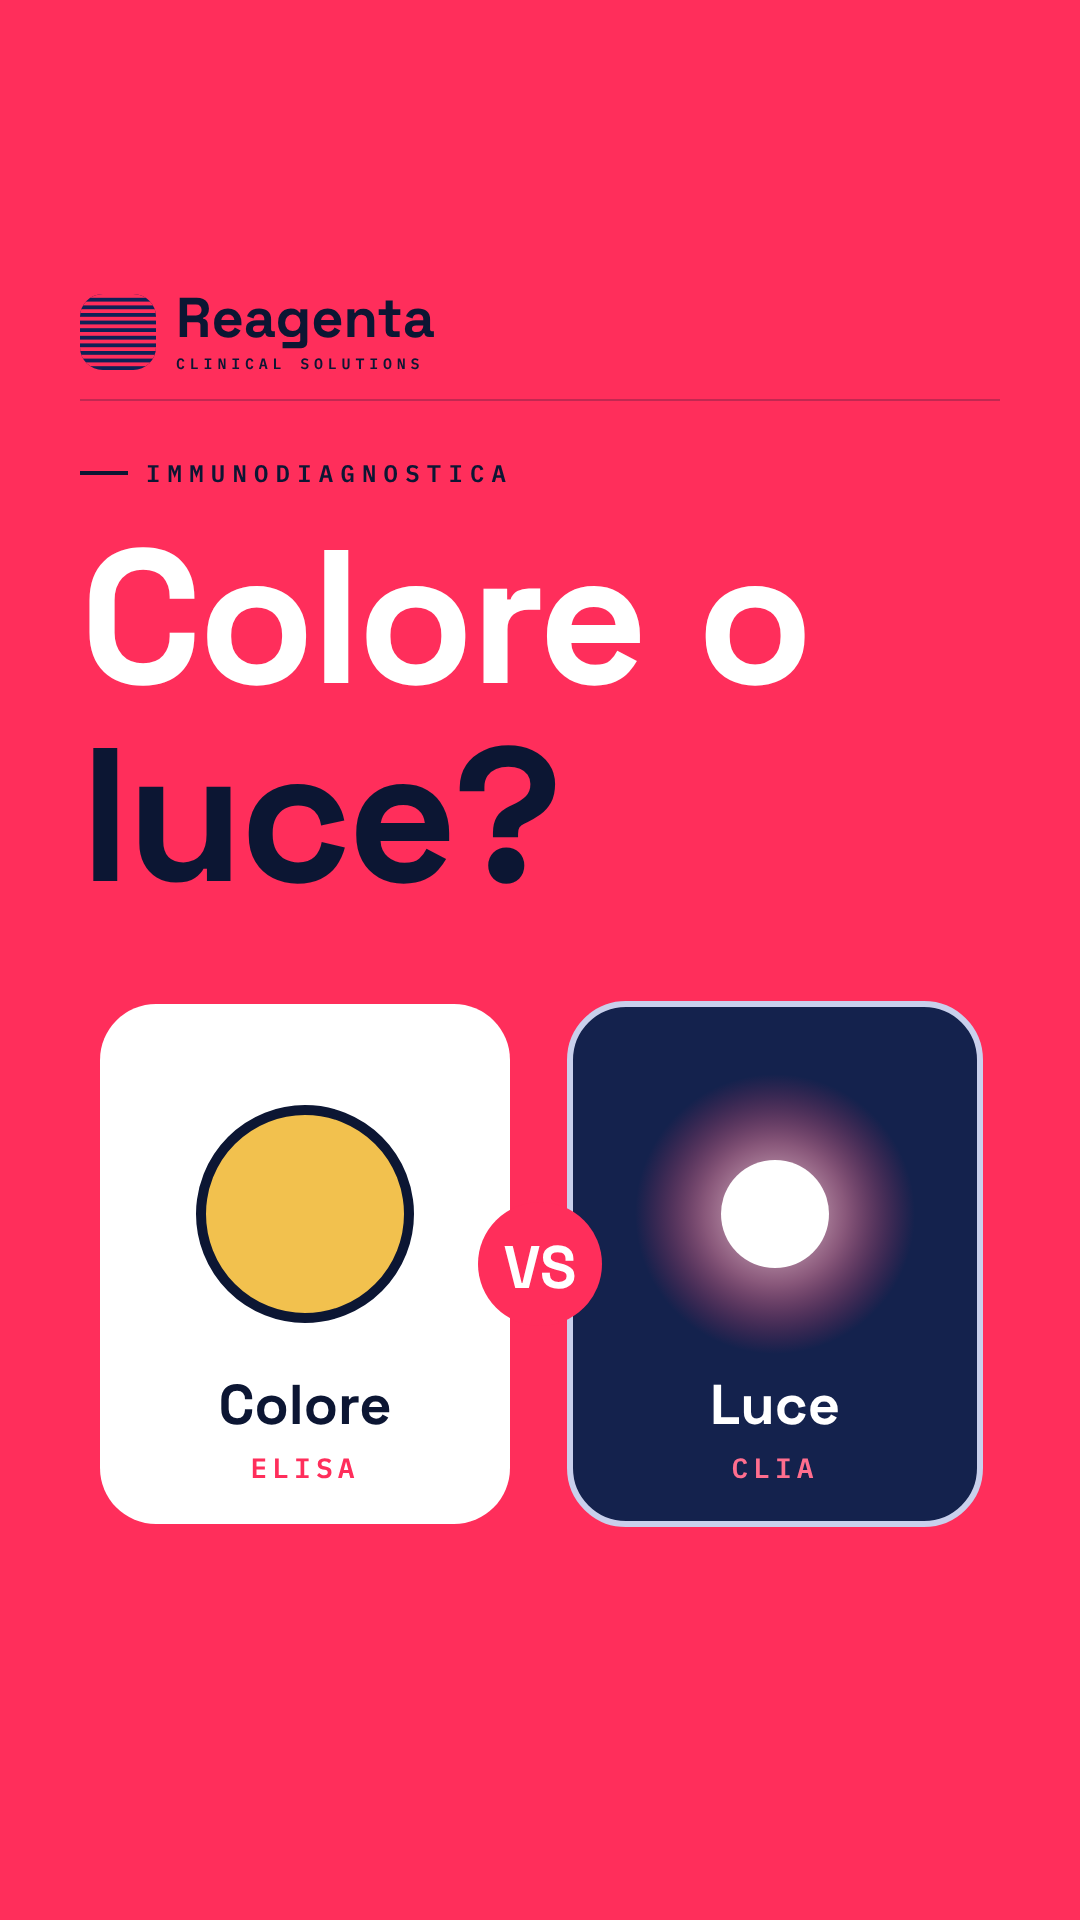
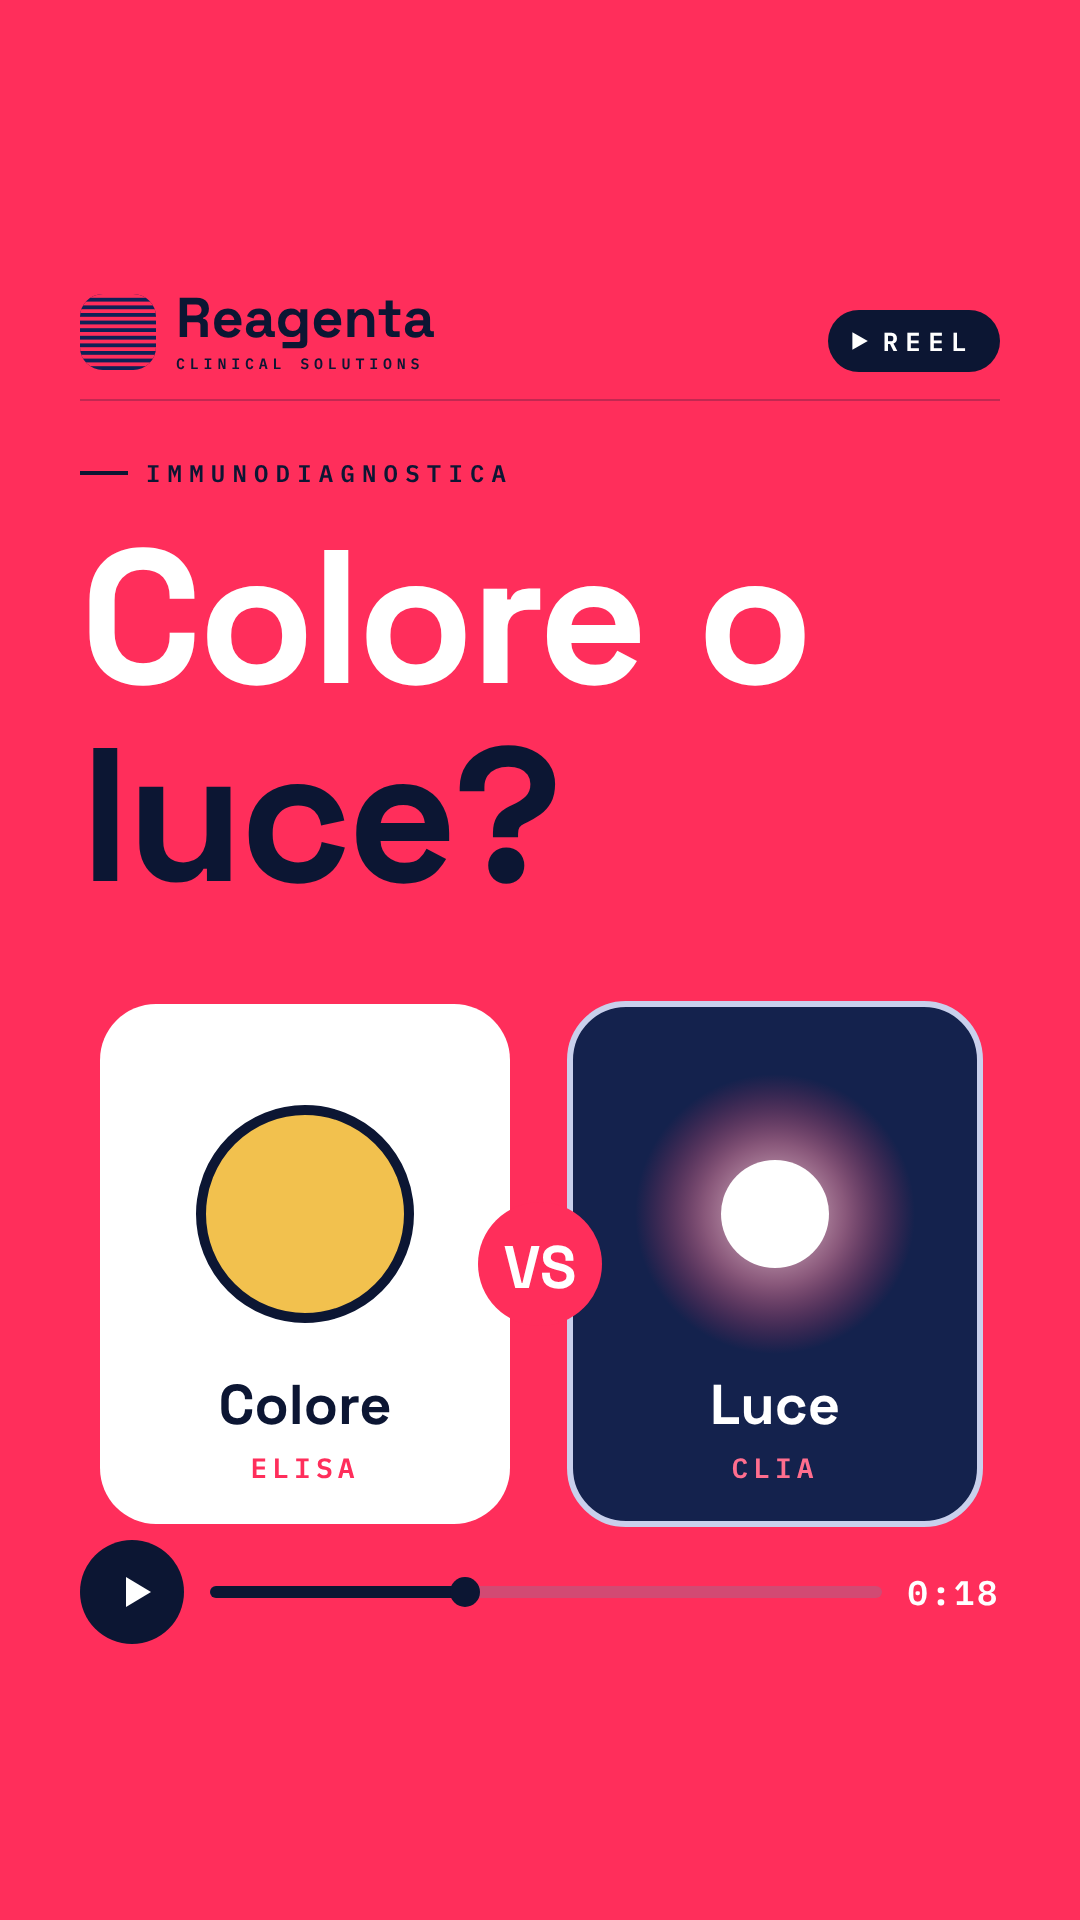
Copertine: bollino REEL e barra player
Claude-Session: https://claude.ai/code/session_0152nv26HiLFYhBMLnh8aMY2

Changed region(s): [[0.0611, 0.7812, 0.8556, 0.875], [0.7639, 0.1562, 0.9472, 0.2188], [0.8861, 0.8125, 0.9167, 0.8438]]

diff --git a/tools/reels_covers.py b/tools/reels_covers.py
@@ -1,32 +1,46 @@
 """Copertine per la griglia Instagram (1080x1920, contenuto nella zona centrale 3:4 = y 240-1680)."""
-import pathlib, sys
+import pathlib, sys, json
 from reels_engine import *
 import reels_art as A, reels_art2 as B
 from reels_pilot import K
 OUT = pathlib.Path("/home/claude/reagenta-social/covers"); OUT.mkdir(exist_ok=True)
 
-def cover(theme, eye_t, title, tsize, em, art, zoom=1.0, extra=None):
+DUR = {"1": 29.766667, "10": 13.4, "2": 25.4, "3": 34.2, "4": 17.8, "5": 23.6, "6": 17.6, "7": 27.6, "8": 26.6, "9": 25.8}
+def reelbar(theme, n):
+    acc = '#0C1633' if theme == 'mag' else '#FF2E5B'; ink = '#fff'
+    t = DUR[str(n)]; mm = f"{int(t//60)}:{int(round(t%60)):02d}"
+    tri = f'<svg width="40" height="40" viewBox="0 0 40 40"><path d="M10 5 L35 20 L10 35Z" fill="{ink}"/></svg>'
+    bar = (f'<div style="position:absolute;left:0;right:0;bottom:36px;display:flex;align-items:center;gap:26px">'
+           f'<div style="width:104px;height:104px;border-radius:50%;background:{acc};display:flex;align-items:center;justify-content:center;padding-left:8px;flex:none">{tri}</div>'
+           f'<div style="flex:1;height:12px;border-radius:6px;background:rgba(127,127,160,.35);position:relative"><div style="width:38%;height:100%;border-radius:6px;background:{acc}"></div><div style="position:absolute;left:38%;top:-9px;width:30px;height:30px;border-radius:50%;background:{acc};margin-left:-15px"></div></div>'
+           f'<div style="font-family:PM;font-weight:600;font-size:34px;letter-spacing:.08em;color:var(--h)">{mm}</div></div>')
+    pill = (f'<div style="position:absolute;right:0;top:20px;display:flex;align-items:center;gap:12px;background:{acc};color:#fff;border-radius:100px;padding:14px 26px 14px 20px;font-family:PM;font-weight:600;font-size:26px;letter-spacing:.28em">'
+            f'<svg width="22" height="22" viewBox="0 0 40 40"><path d="M8 4 L36 20 L8 36Z" fill="#fff"/></svg>REEL</div>')
+    return bar + pill
+
+def cover(theme, eye_t, title, tsize, em, art, zoom=1.0, extra=None, n=0):
+    extra = reelbar(theme, n)
     s = Scene(0, 10, theme); svg, js = art
     s.add(eye(eye_t), "fade", 0.0)
     s.words(title, tsize, d0=0.1, step=0.02, em=em, mt=30)
     s.ill(svg, js, d=0.35, dur=0.1, style=f"margin-top:30px;zoom:{zoom};align-self:center")
-    if extra: s.add(extra, "fade", 0.0, 0.1)
+    if extra: s.add(extra, "fade", 0.0, 0.1, style="position:absolute;left:0;right:0;top:0;bottom:0")
     return s
 
-photo = f'<div class="ph" style="height:640px;margin-top:40px;background:#F4F6FC"><img src="{P}/ave562.png" style="padding:10px"></div>'
-nums = '<div style="display:flex;gap:14px;justify-content:center;margin-top:36px">' + ''.join(f'<div style="width:70px;height:70px;border-radius:50%;background:#0C1633;color:#fff;font-family:SG;font-weight:700;font-size:38px;display:flex;align-items:center;justify-content:center">{i+1}</div>' for i in range(7)) + '</div>'
+photo = f'<div class="ph" style="height:520px;margin-top:30px;background:#F4F6FC"><img src="{P}/ave562.png" style="padding:10px"></div>'
+nums = '<div style="display:flex;gap:14px;justify-content:center;margin-top:28px">' + ''.join(f'<div style="width:70px;height:70px;border-radius:50%;background:#0C1633;color:#fff;font-family:SG;font-weight:700;font-size:38px;display:flex;align-items:center;justify-content:center">{i+1}</div>' for i in range(7)) + '</div>'
 def a(fn): return fn()
 COVERS = [
- ("01-preanalitica", cover('navy', "Il caso del bancone", "Il campione può peggiorare. Dove?", 124, (4,), a(A.r1_hook), .9)),
- ("02-mito-fob-calprotectina", cover('mag', "Laboratorio", "Mito o fatto?", 190, (2,), a(B.r2_hook), .9)),
- ("03-ave562-7-passi", cover('white', "AVE-562", "L'esame delle feci in 7 passi", 124, (4, 5), (photo + nums, ""), 1.0)),
- ("04-centrifugazione", cover('mag', "Domanda di mestiere", "Quanto aspetti prima di centrifugare?", 112, (4,), a(B.r4_timer), .9)),
- ("05-ivdr", cover('white', "Qualità e norme", "IVDR: le scadenze", 150, (1,), a(B.r5_timeline), 1.0)),
- ("06-elisa-clia", cover('mag', "Immunodiagnostica", "Colore o luce?", 190, (2,), a(B.r6_vs), 1.0)),
- ("07-hil", cover('soft', "Preanalitica", "Emolisi, lipemia, ittero.", 128, (2,), a(B.r7_hook3), 1.0)),
- ("08-rapido-laboratorio", cover('soft', "Appropriatezza", "Test rapido o laboratorio?", 128, (2, 3), a(B.r8_scale), 1.0)),
- ("09-manutenzione", cover('white', "Checklist del tecnico", "5 controlli di manutenzione", 128, (0,), a(B.r9_gear), .95)),
- ("10-automatizzare", cover('navy', "Domanda del venerdì", "Cosa automatizzeresti?", 104, (1,), a(B.r10_gears), .95)),
+ ("01-preanalitica", cover('navy', "Il caso del bancone", "Il campione può peggiorare. Dove?", 124, (4,), a(A.r1_hook), .9, n=1)),
+ ("02-mito-fob-calprotectina", cover('mag', "Laboratorio", "Mito o fatto?", 190, (2,), a(B.r2_hook), .9, n=2)),
+ ("03-ave562-7-passi", cover('white', "AVE-562", "L'esame delle feci in 7 passi", 124, (4, 5), (photo + nums, ""), 1.0, n=3)),
+ ("04-centrifugazione", cover('mag', "Domanda di mestiere", "Quanto aspetti prima di centrifugare?", 112, (4,), a(B.r4_timer), .9, n=4)),
+ ("05-ivdr", cover('white', "Qualità e norme", "IVDR: le scadenze", 150, (1,), a(B.r5_timeline), 1.0, n=5)),
+ ("06-elisa-clia", cover('mag', "Immunodiagnostica", "Colore o luce?", 190, (2,), a(B.r6_vs), 1.0, n=6)),
+ ("07-hil", cover('soft', "Preanalitica", "Emolisi, lipemia, ittero.", 128, (2,), a(B.r7_hook3), 1.0, n=7)),
+ ("08-rapido-laboratorio", cover('soft', "Appropriatezza", "Test rapido o laboratorio?", 128, (2, 3), a(B.r8_scale), 1.0, n=8)),
+ ("09-manutenzione", cover('white', "Checklist del tecnico", "5 controlli di manutenzione", 128, (0,), a(B.r9_gear), .95, n=9)),
+ ("10-automatizzare", cover('navy', "Domanda del venerdì", "Cosa automatizzeresti?", 104, (1,), a(B.r10_gears), .95, n=10)),
 ]
 if __name__ == "__main__":
     from playwright.sync_api import sync_playwright
